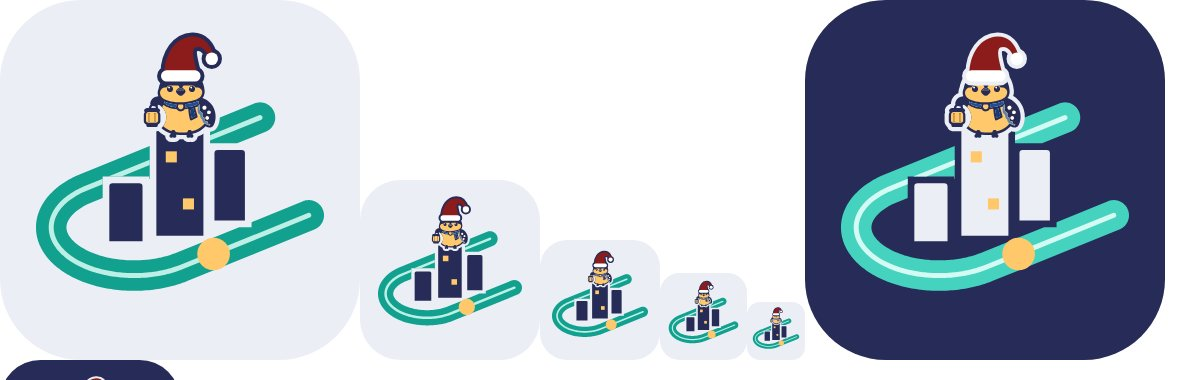
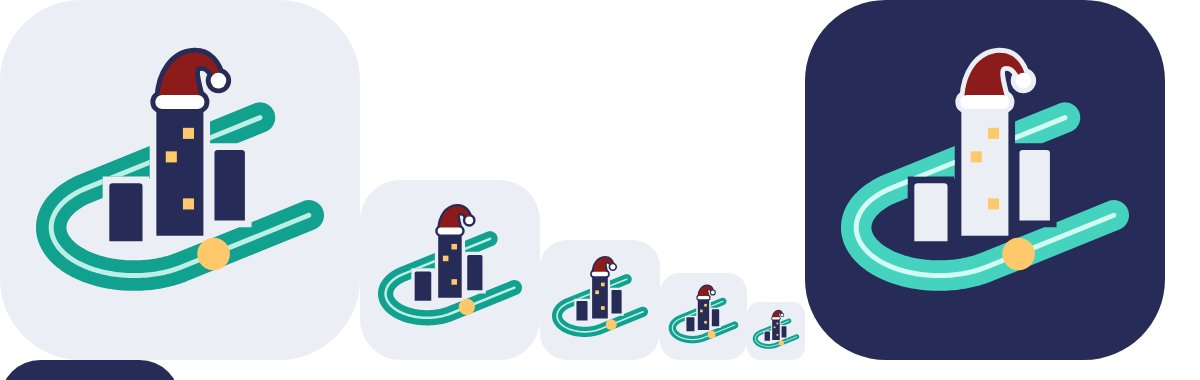
聖誕圖示改成只讓中間高樓戴帽子（A2）
作者看了黃山雀版說「看起來有點怪」：角色插畫和幾何圖示畫法不同，像貼紙。
拿掉鳥與鳥外圍的圈，帽子改戴在高樓頂上。

Claude-Session: https://claude.ai/code/session_01YGNNuoPP6yaD5RLV4Dd5Ky

diff --git a/docs/decisions/855.md b/docs/decisions/855.md
@@ -1,40 +1,31 @@
-### 855. 冬季活動的 App 圖示：台灣站長黃山雀戴聖誕帽
+### 855. 冬季活動的 App 圖示：中間高樓戴聖誕帽
 
-2026-11-18，雲端工作串「做聖誕帽版 App 圖示」，分支 `claude/project-thread-rqxstt`，協調者派工（作者：「好」，同意冬季活動 12/1–1/6 換聖誕帽版的圖示；又說黃山雀「好像都沒出場的戲份」）。號碼依 #2118 的登記。不動 GameCore、存檔版本、golden、replay、任何 Swift 檔。
+2026-11-18，雲端工作串「做聖誕帽版 App 圖示」，分支 `claude/project-thread-rqxstt`，協調者派工（作者：「好」，同意冬季活動 12/1–1/6 換聖誕帽版的圖示）。號碼依 #2118 的登記。不動 GameCore、存檔版本、golden、replay、任何 Swift 檔。
 
 ## 1. 做了什麼
 
-- `RailwayGameApp/Resources/AppIcon.icon`（決策 680 的分層圖示）最前面多一組 5 層，都是 `christmas-` 開頭的 SVG：
+- `RailwayGameApp/Resources/AppIcon.icon`（決策 680 的分層圖示）最前面多一組 3 層，都是 `christmas-` 開頭的 SVG，一頂聖誕帽戴在中間那棟高樓頂上：
   - `christmas-hat-white`：帽緣與毛球，白 `#FFFFFF`（`Map3DPalette.houseWalls[0]`）；
   - `christmas-hat-red`：帽身，紅 `#8C1C1C`（`Map3DPalette.trainRed`）；
-  - `christmas-hat-outline`：帽子的外框，藏青 `#262C57`；深色與染色樣式是淺底 `#ECEEF6`；
-  - `christmas-bird`：台灣站長黃山雀（決策 122 定稿的 `StationMasterTaiwanNormal`，造型、顏色一點都沒改，只放大 2.5 倍、拿掉底色與腳下的軌道）；
-  - `christmas-bird-ring`：鳥外圍一圈淺底色 `#ECEEF6`，淺色時把鳥和藏青的高樓隔開，深色時是鳥的描邊（不然藏青的鳥會沒入藏青的底）。
-- 鳥坐在中間那棟高樓頂上，蓋住樓頂的小突出物與最上面那扇窗。其他四組（黃點、建物、軌道）一個位元組都沒動。
-- 沒有新色：兩個 3D 色票（`Map3DPalette`）的顏色與圖示原本的四色。
+  - `christmas-hat-outline`：帽子的外框，藏青 `#262C57`（和高樓同色，帽子像長在樓頂上）；深色與染色樣式是淺底 `#ECEEF6`（和建物同一套指定）。
+- 其他四組（黃點、建物、軌道）一個位元組都沒動。沒有新色。
 - 所有尺寸由 Xcode 從 `.icon` 產生（決策 680），不另外存 PNG。App 裡的平面品牌圖 `BrandMark` 不換。
 
 ## 2. 什麼時候換回
 
-這一版是主圖示本身，不是「替代圖示」：iOS 換替代圖示一定跳系統對話框，不能照日期悄悄換。所以**活動結束後的第一版（1/6 之後）把這組拿掉**：刪掉 `icon.json` 的第一組與 `Assets/christmas-*.svg` 五個檔，圖示就回到決策 680 的原樣（其他圖層沒動過）。這一項記在私有素材庫的交接檔。
+這一版是主圖示本身，不是「替代圖示」：iOS 換替代圖示一定跳系統對話框，不能照日期悄悄換。所以**活動結束後的第一版（1/6 之後）把這組拿掉**：刪掉 `icon.json` 的第一組與 `Assets/christmas-*.svg`，圖示就回到決策 680 的原樣。這一項記在私有素材庫的交接檔。
 
 ## 3. 選了哪一種
 
-預覽在 `docs/art/app-icon-christmas-2026-11-18/options.jpg`（每列：淺色 300／120／60 點、深色同、模糊、灰階）：
+預覽在 `docs/art/app-icon-christmas-2026-11-18/`：`options.jpg` 是第一輪（A 只加帽子、B 台灣站長黃山雀戴帽站在左邊矮樓、C 黃山雀戴帽坐在高樓頂），`round2.jpg` 是第二輪（C、A2 只戴帽、C2 鳥小一號）。第一輪先做了 C，作者看了說「看起來有點怪」：站長是有細節的角色插畫，圖示是幾何色塊，放在一起像貼紙，深色時外圍那圈淺色更明顯。改成 **A2**。
 
-- A 只加帽子，戴在中間高樓頂上；
-- B 黃山雀戴帽站在左邊矮樓上（鳥太小，60 點就糊成一團）；
-- **C 黃山雀戴帽坐在中間高樓頂上（選這個）**。
-
-成品各尺寸在 `final.jpg`（由 commit 的 SVG 與 `icon.json` 組出來的，淺色、深色各 360／180／120／87／58 像素）。
-
-- 玩家：12 月打開手機就看到站長戴聖誕帽，認得出是遊戲裡的角色；黃色的鳥加紅帽，主畫面大小一眼看得出。
+- 玩家：12 月主畫面一眼看得出過節，縮到最小也乾淨。
 - 鐵道迷：無。
-- 開發：只加一組圖層，換回時整組刪掉，不碰原本的圖層。
-- 美術：站長照決策 122 的定稿不改；帽子是平塗、藏青外框，和站長同一種畫法；顏色只取現有色票。A 最乾淨，但看不出是誰在過節，作者要的是讓黃山雀出場。
+- 開發：只加一組三層，換回時整組刪掉，不碰原本的圖層。
+- 美術：帽子是平塗加藏青外框，和圖示本身同一種畫法；顏色只取現有色票。站長的戲份放到遊戲裡比放在圖示上自然。
 - 音樂：無。
 
 ## 4. 驗證
 
-- VERIFIED（Linux 雲端容器）：`icon.json` 用 JSON 解析；五個 SVG 只用 art-style 第 3 節允許的元素與屬性；用 Chromium 照 `icon.json` 的層序與深色指定組出淺色、深色兩張，和作者看過的預覽 C 是同一張。
-- UNVERIFIED LOCALLY：Xcode 的 `actool` 編得過（看 CI 的 `release-archive.yml`、`ios-build.yml`）；玻璃、陰影與透明／染色樣式的實際樣子（`ictool` 只在 Mac）；實機主畫面。一層裡有多種顏色的 SVG（`christmas-bird`）在 Icon Composer 是否照原色顯示，Mac 上用 `ictool` 看一次。
+- VERIFIED（Linux 雲端容器）：`icon.json` 用 JSON 解析；三個 SVG 只用 art-style 第 3 節允許的元素與屬性；用 Chromium 照 `icon.json` 的層序與深色指定組出淺色、深色（`final.jpg`），和預覽 A2 是同一張。
+- UNVERIFIED LOCALLY：Xcode 的 `actool` 編得過（看 CI 的 `release-archive.yml`、`ios-build.yml`）；玻璃、陰影與透明／染色樣式的實際樣子（`ictool` 只在 Mac）；實機主畫面。

diff --git a/docs/art/app-icon-christmas-2026-11-18/README.md b/docs/art/app-icon-christmas-2026-11-18/README.md
@@ -2,5 +2,6 @@
 
 2026-11-18。
 
-- `options.jpg`：三個方案，每列是淺色 300／120／60 點、深色同、模糊、灰階。A 只加帽子；B 黃山雀站在左邊矮樓；**C 黃山雀坐在高樓頂（選這個）**。
+- `options.jpg`：第一輪三個方案，每列是淺色 300／120／60 點、深色同、模糊、灰階。A 只加帽子；B 台灣站長黃山雀站在左邊矮樓；C 黃山雀坐在高樓頂。
+- `round2.jpg`：第二輪，作者說 C「看起來有點怪」之後：C、**A2 只戴帽（選這個）**、C2 鳥小一號。
 - `final.jpg`：由 commit 的 `AppIcon.icon` 各層組出來的成品，淺色、深色各 360／180／120／87／58 像素。只是平塗疊圖，沒有系統加的玻璃邊與陰影。
